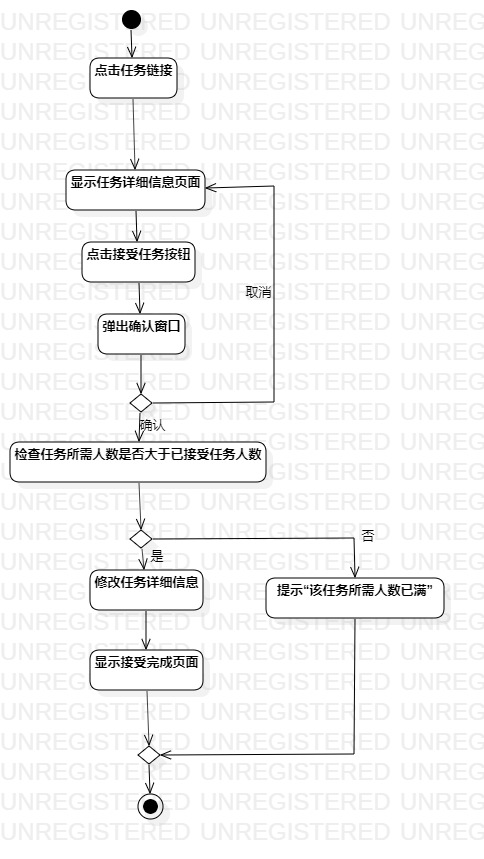
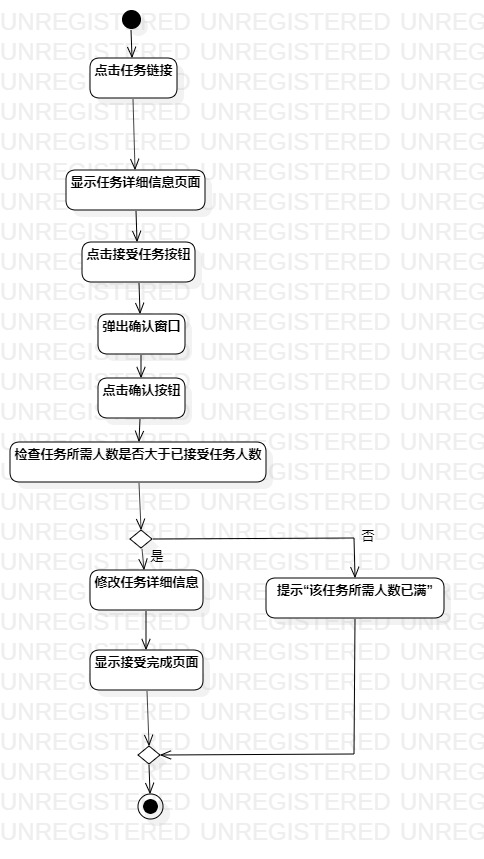
提交实验三

Changed region(s): [[0.186, 0.4237, 0.4029, 0.5146], [0.4959, 0.2119, 0.5888, 0.454], [0.4339, 0.2119, 0.4649, 0.2421]]

diff --git a/students/1714080902110/lab4.md b/students/1714080902110/lab4.md
@@ -1,0 +1,32 @@
+# 实验四：类建模
+
+## 一、实验目标
+
+1.掌握类建模方法；  
+2.了解MVC或熟悉的设计模式；  
+3.掌握类图的画法。（Class Diagram）
+
+## 二、实验内容
+
+1.基于MVC模式设计类；  
+2.设计类的关系；  
+3.画出类图；
+
+## 三、实验步骤
+
+1.回到实验二观察并分析用例规划  
+2.提炼出实体类、界面类、控制类  
+3.在StarUML画出各个类
+4.建立各个类之间的关系，完成类建模（Lab4_ClassDiagram、Lab4_ClassDiagram1）
+
+## 四、实验结果
+
+1.发布任务类图
+
+![第一张类图](./Lab4_ClassDiagram.jpg)  
+图1.发布者发布任务
+
+2.接受任务类图
+
+![第二张类图](./Lab4_ClassDiagram1.jpg)  
+图2.接受者接受任务

diff --git a/students/1714080902110/lab2.md b/students/1714080902110/lab2.md
@@ -72,5 +72,4 @@
 ~| 6. 系统查询该任务所需人数大于已接受任务人数； |   
 ~| 7. 系统修改该任务的详细信息； |   
 ~| 8. 系统显示任务接受完成页面。  |  
-扩展流程  | 5.1 接受者点击取消按钮，系统返回该任务详细信息页面。  |*用例执行失败*  
-~| 6.1 系统发现所需人数小于或等于已接受任务人数，提示接收者“该任务所需人数已满”；  |   
+扩展流程  | 6.1 系统发现所需人数小于或等于已接受任务人数，提示接收者“该任务所需人数已满”。  |*用例执行失败*  
